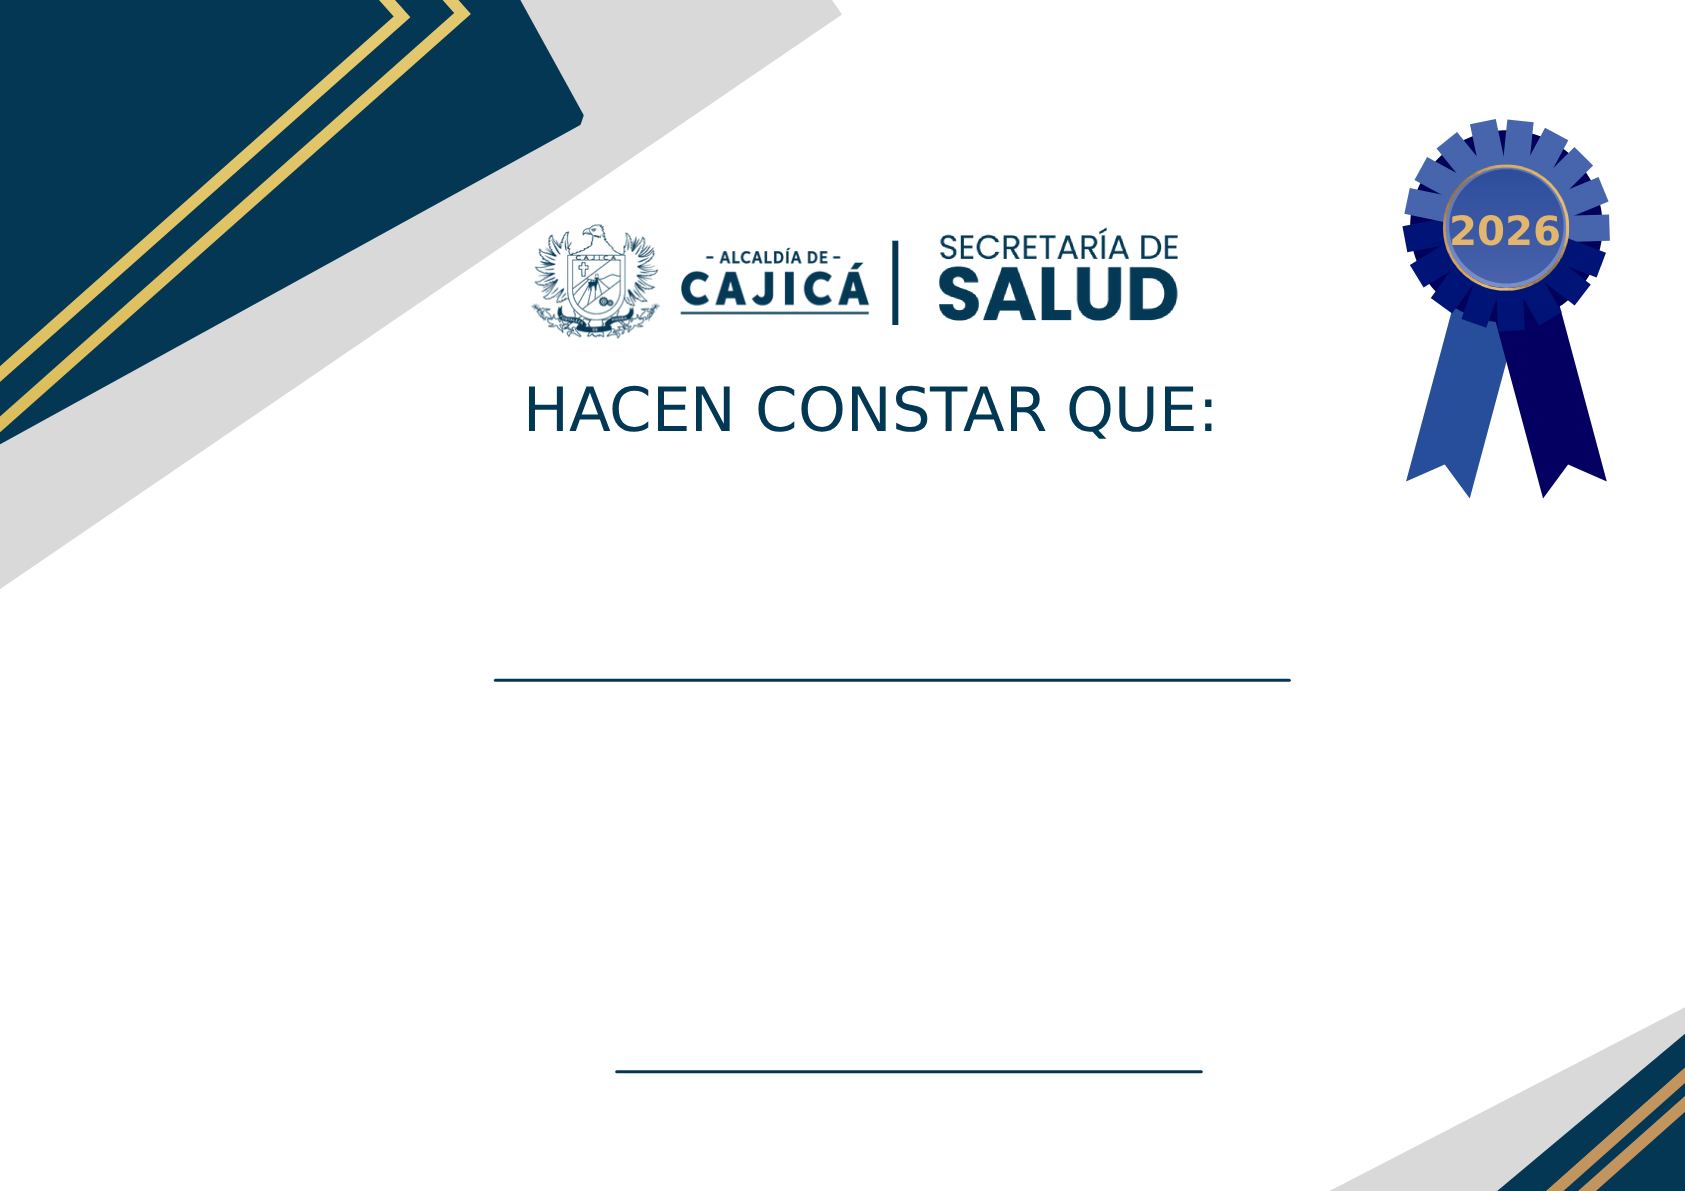
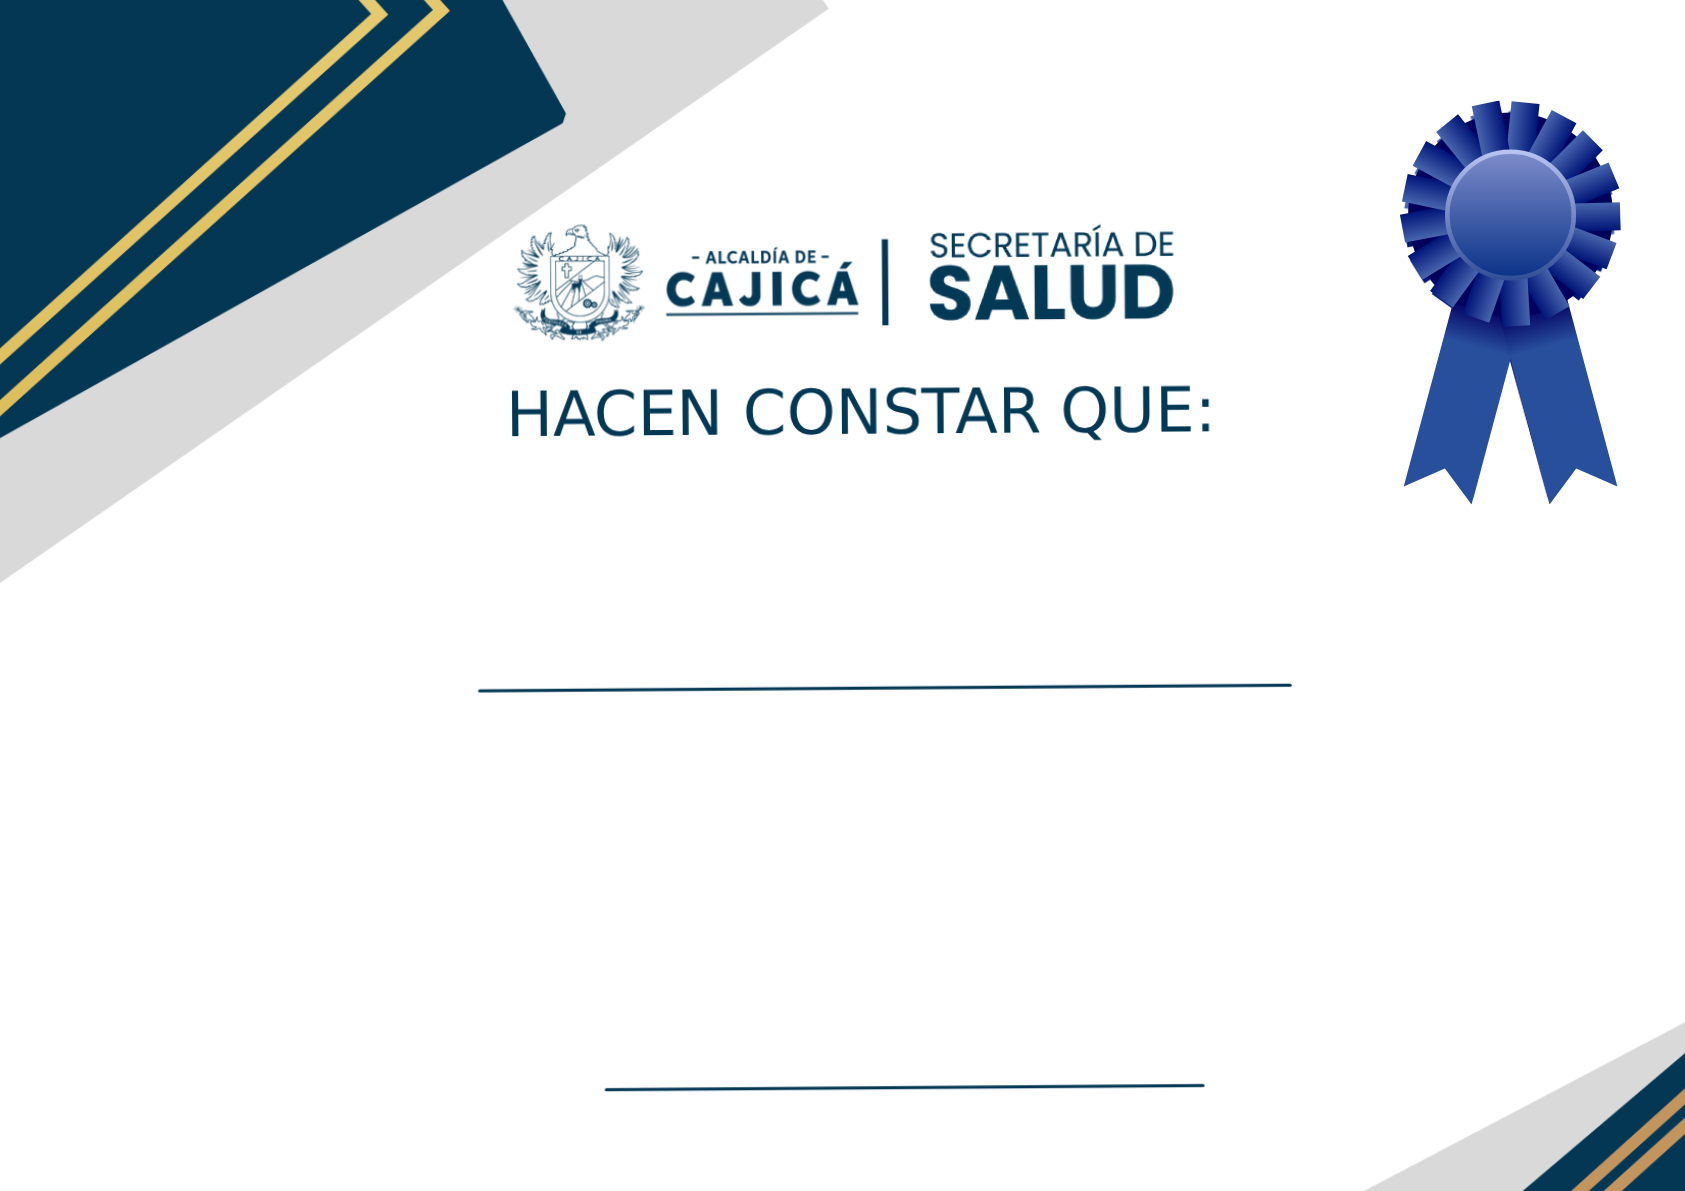
Capitalizar nombres en registro, reiniciar progreso al obtener certificado y corregir renovación
- Capitalizar primera letra de cada palabra en nombres de usuario al registrarse
- Reiniciar progreso del curso (videos, PDFs, quizzes) automáticamente al emitir el certificado
- Corregir renovación de certificado: solo permitir si el certificado está vencido
- Corregir FK quiz_respuesta → quiz_intento al eliminar progreso
- Corregir ConcurrentModificationException en Usuario con @EqualsAndHashCode(onlyExplicitlyIncluded = true)
- Eliminar año del diploma.png

diff --git a/src/main/resources/templates/certificados/estado.html b/src/main/resources/templates/certificados/estado.html
@@ -18,12 +18,53 @@
         </div>
     </div>
 
-    <!-- Ya tiene certificado -->
-    <div th:if="${tieneCertificado}" class="card border-success">
+    <!-- Certificado expirado -->
+    <div th:if="${tieneCertificado and certificadoExpirado}" class="card border-danger">
+        <div class="card-header bg-danger text-white">
+            <h5 class="mb-0"><i class="bi bi-exclamation-triangle"></i> Tu certificado ha vencido</h5>
+        </div>
+        <div class="card-body">
+            <div class="alert alert-warning">
+                <i class="bi bi-info-circle"></i>
+                Tu certificado venció el
+                <strong th:text="${#temporals.format(certificado.fechaVigencia, 'dd/MM/yyyy')}"></strong>.
+                Para renovarlo debes repetir el curso completo.
+            </div>
+            <div class="row mb-3">
+                <div class="col-md-6">
+                    <p class="mb-1 text-muted small">Último certificado emitido</p>
+                    <p th:text="${#temporals.format(certificado.fechaEmision, 'dd/MM/yyyy')}"></p>
+                </div>
+                <div class="col-md-6">
+                    <p class="mb-1 text-muted small">Código anterior</p>
+                    <p class="text-muted" th:text="${certificado.codigoVerificacion}"></p>
+                </div>
+            </div>
+            <hr>
+            <p>Al iniciar la renovación se borrará tu progreso actual y deberás completar el curso nuevamente.</p>
+            <div class="d-grid gap-2 d-md-flex">
+                <form th:action="@{/certificados/curso/{id}/renovar(id=${curso.id})}" method="post">
+                    <button type="submit" class="btn btn-danger btn-lg"
+                            onclick="return confirm('¿Estás seguro? Se borrará todo tu progreso y deberás repetir el curso.')">
+                        <i class="bi bi-arrow-repeat"></i> Iniciar renovación
+                    </button>
+                </form>
+                <a th:href="@{/certificados/curso/{id}/descargar(id=${curso.id})}" class="btn btn-outline-secondary btn-lg">
+                    <i class="bi bi-download"></i> Descargar certificado vencido
+                </a>
+            </div>
+        </div>
+    </div>
+
+    <!-- Certificado vigente -->
+    <div th:if="${tieneCertificado and !certificadoExpirado}" class="card border-success">
         <div class="card-header bg-success text-white">
             <h5 class="mb-0"><i class="bi bi-award"></i> ¡Felicitaciones! Ya tienes tu certificado</h5>
         </div>
         <div class="card-body">
+            <div th:if="${diasRestantes <= 30}" class="alert alert-warning mb-3">
+                <i class="bi bi-clock"></i> Tu certificado vence en <strong th:text="${diasRestantes}"></strong> días.
+            </div>
             <div class="row">
                 <div class="col-md-6">
                     <p><strong>Código de verificación:</strong></p>

diff --git a/src/main/resources/templates/certificados/mis-certificados.html b/src/main/resources/templates/certificados/mis-certificados.html
@@ -31,14 +31,16 @@
             <div class="card h-100 overflow-hidden">
                 <!-- Header con gradiente -->
                 <div class="p-3 text-white"
-                     style="background:linear-gradient(135deg,#003366,#0b63a8);">
+                     th:style="${certificado.fechaVigencia != null and certificado.fechaVigencia.isBefore(#temporals.createNow()) ? 'background:linear-gradient(135deg,#6c757d,#495057)' : 'background:linear-gradient(135deg,#003366,#0b63a8)'}">
                     <div class="d-flex align-items-start gap-2">
                         <i class="bi bi-patch-check-fill fs-4 mt-1" style="color:#B89D66;"></i>
-                        <div>
+                        <div class="flex-grow-1">
                             <h6 class="mb-0 fw-semibold lh-sm"
                                 th:text="${certificado.curso.nombre}">Nombre del Curso</h6>
                             <small class="opacity-75">Certificado oficial</small>
                         </div>
+                        <span th:if="${certificado.fechaVigencia != null and certificado.fechaVigencia.isBefore(#temporals.createNow())}"
+                              class="badge bg-danger align-self-start">Vencido</span>
                     </div>
                 </div>
 

diff --git a/src/main/java/com/cajica/stream/services/CertificadoService.java b/src/main/java/com/cajica/stream/services/CertificadoService.java
@@ -2,6 +2,10 @@ package com.cajica.stream.services;
 
 import com.cajica.stream.entities.*;
 import com.cajica.stream.repositories.CertificadoRepository;
+import com.cajica.stream.repositories.ContenidoProgresoRepository;
+import com.cajica.stream.repositories.QuizIntentoRepository;
+import com.cajica.stream.repositories.QuizRespuestaRepository;
+import com.cajica.stream.repositories.VideoProgresoRepository;
 import java.time.LocalDateTime;
 import java.time.temporal.ChronoUnit;
 import java.util.List;
@@ -9,6 +13,7 @@ import java.util.Optional;
 import java.util.UUID;
 import org.springframework.beans.factory.annotation.Autowired;
 import org.springframework.stereotype.Service;
+import org.springframework.transaction.annotation.Transactional;
 
 @Service
 public class CertificadoService {
@@ -16,6 +21,10 @@ public class CertificadoService {
   private static final double NOTA_MINIMA_APROBACION = 70.0;
 
   @Autowired private CertificadoRepository certificadoRepository;
+  @Autowired private VideoProgresoRepository videoProgresoRepository;
+  @Autowired private QuizIntentoRepository quizIntentoRepository;
+  @Autowired private QuizRespuestaRepository quizRespuestaRepository;
+  @Autowired private ContenidoProgresoRepository contenidoProgresoRepository;
 
   @Autowired private VideoProgresoService videoProgresoService;
 
@@ -103,6 +112,7 @@ public class CertificadoService {
 
   private static final int DIAS_VENTANA_RENOVACION = 30;
 
+  @Transactional
   public Certificado generarCertificado(Usuario usuario, Curso curso) {
     ElegibilidadCertificado elegibilidad = verificarElegibilidad(usuario, curso);
     if (!elegibilidad.isElegible()) {
@@ -111,6 +121,8 @@ public class CertificadoService {
 
     Optional<Certificado> existente =
         certificadoRepository.findByUsuarioIdAndCursoId(usuario.getId(), curso.getId());
+
+    Certificado certificadoGuardado;
 
     if (existente.isPresent()) {
       Certificado cert = existente.get();
@@ -129,21 +141,40 @@ public class CertificadoService {
         cert.setTotalVideos(elegibilidad.getTotalVideos());
         cert.setQuizzesAprobados(elegibilidad.getQuizzesAprobados());
         cert.setTotalQuizzes(elegibilidad.getTotalQuizzes());
-        return certificadoRepository.save(cert);
+        certificadoGuardado = certificadoRepository.save(cert);
+      } else {
+        // Certificado aún vigente y fuera de ventana: devolver el existente sin cambios
+        return cert;
       }
-
-      // Certificado aún vigente y fuera de ventana: devolver el existente sin cambios
-      return cert;
+    } else {
+      // Primer certificado
+      Certificado certificado = new Certificado(usuario, curso, generarCodigoVerificacion());
+      certificado.setNotaPromedio(elegibilidad.getNotaPromedio());
+      certificado.setVideosCompletados(elegibilidad.getVideosCompletados());
+      certificado.setTotalVideos(elegibilidad.getTotalVideos());
+      certificado.setQuizzesAprobados(elegibilidad.getQuizzesAprobados());
+      certificado.setTotalQuizzes(elegibilidad.getTotalQuizzes());
+      certificadoGuardado = certificadoRepository.save(certificado);
     }
 
-    // Primer certificado
-    Certificado certificado = new Certificado(usuario, curso, generarCodigoVerificacion());
-    certificado.setNotaPromedio(elegibilidad.getNotaPromedio());
-    certificado.setVideosCompletados(elegibilidad.getVideosCompletados());
-    certificado.setTotalVideos(elegibilidad.getTotalVideos());
-    certificado.setQuizzesAprobados(elegibilidad.getQuizzesAprobados());
-    certificado.setTotalQuizzes(elegibilidad.getTotalQuizzes());
-    return certificadoRepository.save(certificado);
+    // Reiniciar progreso al emitir el certificado: el usuario debe completar
+    // el curso completo para renovarlo cuando venza.
+    reiniciarProgreso(usuario.getId(), curso.getId());
+
+    return certificadoGuardado;
+  }
+
+  public boolean estaExpirado(Certificado certificado) {
+    LocalDateTime vigencia = certificado.getFechaVigencia();
+    return vigencia == null || !vigencia.isAfter(LocalDateTime.now());
+  }
+
+  @Transactional
+  public void reiniciarProgreso(Long usuarioId, Long cursoId) {
+    quizRespuestaRepository.deleteByUsuarioIdAndCursoId(usuarioId, cursoId);
+    quizIntentoRepository.deleteByUsuarioIdAndCursoId(usuarioId, cursoId);
+    videoProgresoRepository.deleteByUsuarioIdAndCursoId(usuarioId, cursoId);
+    contenidoProgresoRepository.deleteByUsuarioIdAndCursoId(usuarioId, cursoId);
   }
 
   private String generarCodigoVerificacion() {
@@ -154,6 +185,7 @@ public class CertificadoService {
    * Intenta generar automáticamente el certificado si el usuario cumple todos los requisitos.
    * Retorna el certificado si se generó, null si no cumple requisitos o ya lo tiene.
    */
+  @Transactional
   public Certificado intentarGenerarAutomaticamente(String username, Long cursoId) {
     Optional<Usuario> usuarioOpt = usuarioService.findByUsername(username);
     if (usuarioOpt.isEmpty()) {

diff --git a/src/main/java/com/cajica/stream/controllers/CertificadoController.java b/src/main/java/com/cajica/stream/controllers/CertificadoController.java
@@ -8,6 +8,7 @@ import com.cajica.stream.services.CertificadoService;
 import com.cajica.stream.services.CertificadoService.ElegibilidadCertificado;
 import com.cajica.stream.services.CursoService;
 import com.cajica.stream.services.UsuarioService;
+import java.time.temporal.ChronoUnit;
 import java.util.Optional;
 import org.slf4j.Logger;
 import org.slf4j.LoggerFactory;
@@ -59,8 +60,16 @@ public class CertificadoController {
         certificadoService.findByUsuarioAndCurso(usuario.getId(), cursoId);
 
     if (certificadoExistente.isPresent()) {
-      model.addAttribute("certificado", certificadoExistente.get());
+      Certificado cert = certificadoExistente.get();
+      boolean expirado = certificadoService.estaExpirado(cert);
+      model.addAttribute("certificado", cert);
       model.addAttribute("tieneCertificado", true);
+      model.addAttribute("certificadoExpirado", expirado);
+      if (!expirado) {
+        long diasRestantes =
+            ChronoUnit.DAYS.between(java.time.LocalDateTime.now(), cert.getFechaVigencia());
+        model.addAttribute("diasRestantes", diasRestantes);
+      }
     } else {
       ElegibilidadCertificado elegibilidad =
           certificadoService.verificarElegibilidad(usuario, curso);
@@ -136,6 +145,33 @@ public class CertificadoController {
           e);
       return ResponseEntity.status(HttpStatus.INTERNAL_SERVER_ERROR).build();
     }
+  }
+
+  @PostMapping("/curso/{cursoId}/renovar")
+  public String renovarCertificado(
+      @PathVariable("cursoId") Long cursoId, RedirectAttributes redirectAttributes) {
+    Authentication auth = SecurityContextHolder.getContext().getAuthentication();
+    Optional<Usuario> usuarioOpt = usuarioService.findByUsername(auth.getName());
+
+    if (usuarioOpt.isEmpty()) {
+      return "redirect:/cursos";
+    }
+
+    Optional<Certificado> certificadoOpt =
+        certificadoService.findByUsuarioAndCurso(usuarioOpt.get().getId(), cursoId);
+
+    if (certificadoOpt.isEmpty() || !certificadoService.estaExpirado(certificadoOpt.get())) {
+      redirectAttributes.addFlashAttribute(
+          "error", "No puedes renovar este certificado porque aún está vigente.");
+      return "redirect:/certificados/curso/" + cursoId + "/estado";
+    }
+
+    certificadoService.reiniciarProgreso(usuarioOpt.get().getId(), cursoId);
+    redirectAttributes.addFlashAttribute(
+        "mensaje",
+        "Tu progreso ha sido reiniciado. Completa el curso nuevamente para renovar tu"
+            + " certificado.");
+    return "redirect:/cursos/" + cursoId;
   }
 
   @GetMapping("/verificar")

diff --git a/src/main/java/com/cajica/stream/services/CursoService.java b/src/main/java/com/cajica/stream/services/CursoService.java
@@ -1,10 +1,10 @@
 package com.cajica.stream.services;
 
 import com.cajica.stream.entities.Curso;
-import com.cajica.stream.entities.QuizIntento;
 import com.cajica.stream.repositories.ContenidoProgresoRepository;
 import com.cajica.stream.repositories.CursoRepository;
 import com.cajica.stream.repositories.QuizIntentoRepository;
+import com.cajica.stream.repositories.QuizRespuestaRepository;
 import com.cajica.stream.repositories.VideoProgresoRepository;
 import java.util.List;
 import java.util.Optional;
@@ -22,6 +22,7 @@ public class CursoService {
   private final FileStorageService fileStorageService;
   private final VideoProgresoRepository videoProgresoRepository;
   private final QuizIntentoRepository quizIntentoRepository;
+  private final QuizRespuestaRepository quizRespuestaRepository;
   private final ContenidoProgresoRepository contenidoProgresoRepository;
 
   @Autowired
@@ -30,20 +31,21 @@ public class CursoService {
       FileStorageService fileStorageService,
       VideoProgresoRepository videoProgresoRepository,
       QuizIntentoRepository quizIntentoRepository,
+      QuizRespuestaRepository quizRespuestaRepository,
       ContenidoProgresoRepository contenidoProgresoRepository) {
     this.cursoRepository = cursoRepository;
     this.fileStorageService = fileStorageService;
     this.videoProgresoRepository = videoProgresoRepository;
     this.quizIntentoRepository = quizIntentoRepository;
+    this.quizRespuestaRepository = quizRespuestaRepository;
     this.contenidoProgresoRepository = contenidoProgresoRepository;
   }
 
   @Transactional
   public void reiniciarProgreso(Long usuarioId, Long cursoId) {
+    quizRespuestaRepository.deleteByUsuarioIdAndCursoId(usuarioId, cursoId);
+    quizIntentoRepository.deleteByUsuarioIdAndCursoId(usuarioId, cursoId);
     videoProgresoRepository.deleteByUsuarioIdAndCursoId(usuarioId, cursoId);
-    List<QuizIntento> intentos =
-        quizIntentoRepository.findByUsuarioIdAndCursoId(usuarioId, cursoId);
-    quizIntentoRepository.deleteAll(intentos);
     contenidoProgresoRepository.deleteByUsuarioIdAndCursoId(usuarioId, cursoId);
   }
 

diff --git a/src/main/java/com/cajica/stream/repositories/QuizRespuestaRepository.java b/src/main/java/com/cajica/stream/repositories/QuizRespuestaRepository.java
@@ -3,9 +3,21 @@ package com.cajica.stream.repositories;
 import com.cajica.stream.entities.QuizRespuesta;
 import java.util.List;
 import org.springframework.data.jpa.repository.JpaRepository;
+import org.springframework.data.jpa.repository.Modifying;
+import org.springframework.data.jpa.repository.Query;
+import org.springframework.data.repository.query.Param;
 import org.springframework.stereotype.Repository;
+import org.springframework.transaction.annotation.Transactional;
 
 @Repository
 public interface QuizRespuestaRepository extends JpaRepository<QuizRespuesta, Long> {
   List<QuizRespuesta> findByIntentoId(Long intentoId);
+
+  @Transactional
+  @Modifying
+  @Query(
+      "DELETE FROM QuizRespuesta qr WHERE qr.intento.id IN (SELECT qi.id FROM QuizIntento qi WHERE"
+          + " qi.usuario.id = :usuarioId AND qi.quiz.curso.id = :cursoId)")
+  void deleteByUsuarioIdAndCursoId(
+      @Param("usuarioId") Long usuarioId, @Param("cursoId") Long cursoId);
 }

diff --git a/src/main/java/com/cajica/stream/services/UsuarioService.java b/src/main/java/com/cajica/stream/services/UsuarioService.java
@@ -73,9 +73,17 @@ public class UsuarioService {
 
   @Transactional
   public Usuario registrarUsuario(Usuario usuario) {
-    // Normalizar nombre completo a minúsculas
+    // Capitalizar cada palabra del nombre completo
     if (usuario.getNombreCompleto() != null) {
-      usuario.setNombreCompleto(usuario.getNombreCompleto().trim().toLowerCase());
+      String[] palabras = usuario.getNombreCompleto().trim().toLowerCase().split("\\s+");
+      StringBuilder sb = new StringBuilder();
+      for (String palabra : palabras) {
+        if (!palabra.isEmpty()) {
+          if (sb.length() > 0) sb.append(" ");
+          sb.append(Character.toUpperCase(palabra.charAt(0))).append(palabra.substring(1));
+        }
+      }
+      usuario.setNombreCompleto(sb.toString());
     }
 
     // Formatear número de identificación con puntos (ej: 1234567 → 1.234.567)

diff --git a/src/main/java/com/cajica/stream/repositories/QuizIntentoRepository.java b/src/main/java/com/cajica/stream/repositories/QuizIntentoRepository.java
@@ -39,4 +39,12 @@ public interface QuizIntentoRepository extends JpaRepository<QuizIntento, Long> 
   java.util.Set<Long> findQuizIdsIntentatosByUsuarioIdAndCursoId(
       @org.springframework.data.repository.query.Param("usuarioId") Long usuarioId,
       @org.springframework.data.repository.query.Param("cursoId") Long cursoId);
+
+  @org.springframework.transaction.annotation.Transactional
+  @org.springframework.data.jpa.repository.Modifying
+  @org.springframework.data.jpa.repository.Query(
+      "DELETE FROM QuizIntento qi WHERE qi.usuario.id = :usuarioId AND qi.quiz.curso.id = :cursoId")
+  void deleteByUsuarioIdAndCursoId(
+      @org.springframework.data.repository.query.Param("usuarioId") Long usuarioId,
+      @org.springframework.data.repository.query.Param("cursoId") Long cursoId);
 }

diff --git a/src/main/java/com/cajica/stream/controllers/VideoViewController.java b/src/main/java/com/cajica/stream/controllers/VideoViewController.java
@@ -360,6 +360,8 @@ public class VideoViewController {
       redirectAttributes.addFlashAttribute("error", e.getMessage());
       return "redirect:/cursos/" + cursoId + "/videos/" + id + "/view?quizId=" + quizId;
     } catch (Exception e) {
+      org.slf4j.LoggerFactory.getLogger(getClass())
+          .error("Error al enviar quiz cursoId={} quizId={}", cursoId, quizId, e);
       redirectAttributes.addFlashAttribute("error", "No se pudo enviar el quiz");
       return "redirect:/cursos/" + cursoId + "/videos/" + id + "/view?quizId=" + quizId;
     }

diff --git a/src/main/java/com/cajica/stream/entities/Usuario.java b/src/main/java/com/cajica/stream/entities/Usuario.java
@@ -6,14 +6,17 @@ import java.time.LocalDateTime;
 import java.util.HashSet;
 import java.util.Set;
 import lombok.Data;
+import lombok.EqualsAndHashCode;
 import lombok.extern.slf4j.Slf4j;
 
 @Data
+@EqualsAndHashCode(onlyExplicitlyIncluded = true)
 @Entity
 @Slf4j
 @Table(name = "usuarios")
 public class Usuario {
 
+  @EqualsAndHashCode.Include
   @Id
   @GeneratedValue(strategy = GenerationType.IDENTITY)
   private Long id;
